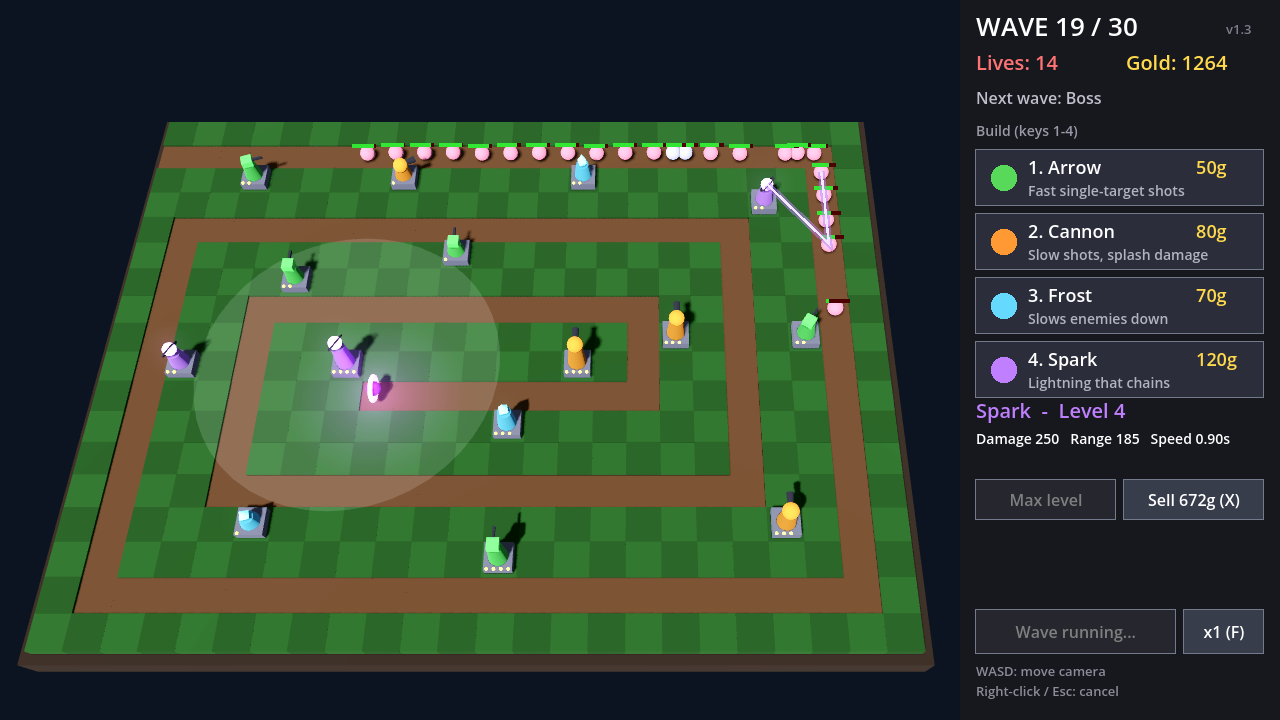
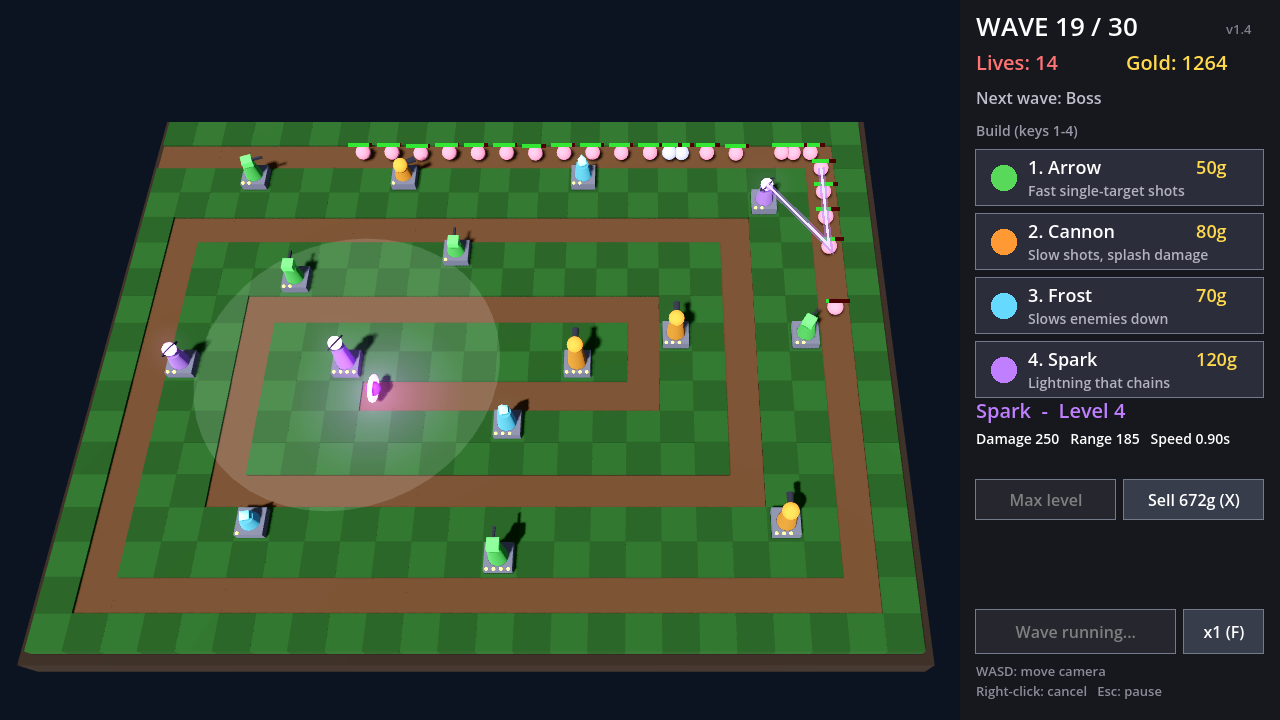
Pause the game with Esc
- Esc pauses and unpauses; the map dims and shows a PAUSED message
- Nothing moves and clicks/keys are ignored while paused
- Right-click still cancels building
- Set version to 1.4; update README controls and screenshot

Changed region(s): [[0.2812, 0.1833, 0.6562, 0.3667], [0.8125, 0.9472, 0.9062, 0.9778]]

diff --git a/README.md b/README.md
@@ -38,7 +38,8 @@ godot --path path/to/this/folder
 | **W A S D** | Move the camera |
 | **Space** | Start the next wave |
 | **F** | Change game speed (1×, 2×, 3×) |
-| **Right-click** / **Esc** | Cancel |
+| **Right-click** | Cancel |
+| **Esc** | Pause / continue |
 | **R** | Restart after winning or losing |
 
 ## Towers
